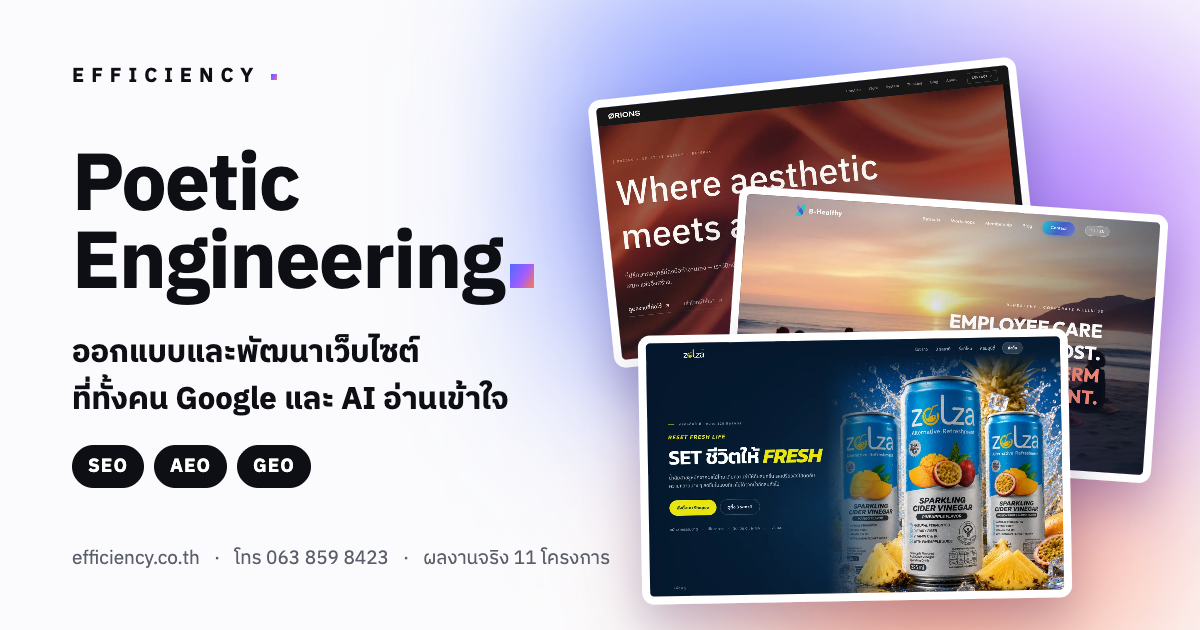
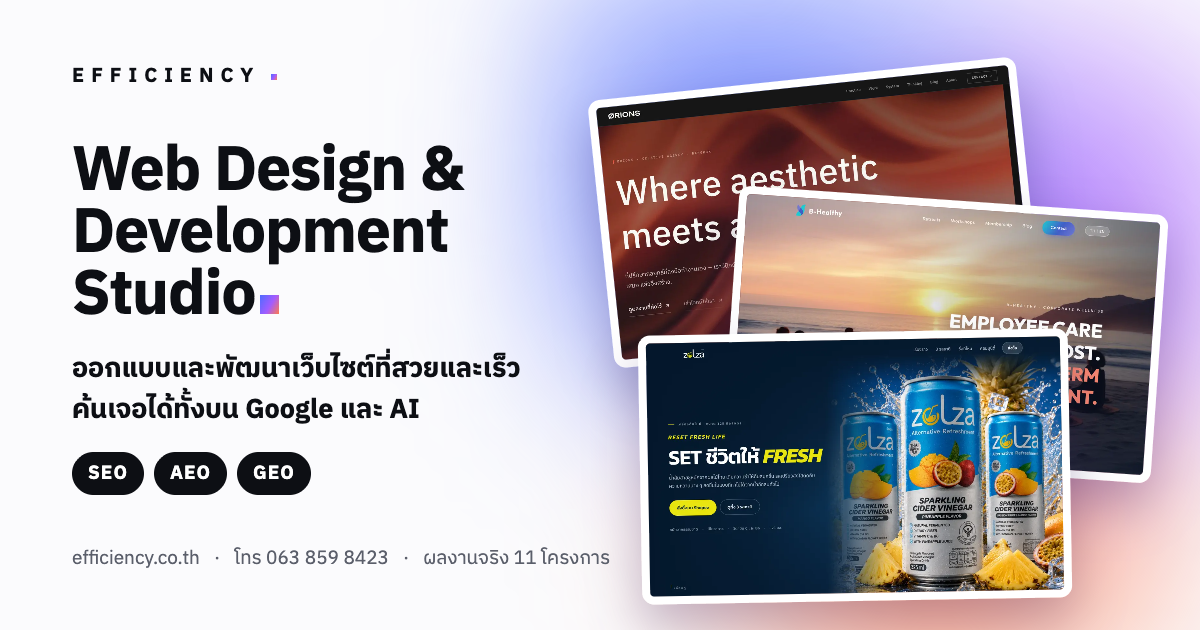
หัวเรื่อง Web Design & Development Studio และเพิ่ม Creative Director
- หน้าแรก: h1 เป็น "Web Design & Development Studio" (BRAND.headline)
  Poetic Engineering ยังเป็นสโลแกนแบรนด์ ไม่ใช่หัวเรื่อง
- ประโยคใต้หัวเรื่อง: "ที่ทั้งคน Google และ AI อ่านเข้าใจ" อ่านแล้วงง
  เปลี่ยนเป็น "ออกแบบและพัฒนาเว็บไซต์ที่สวยและเร็ว / ค้นเจอได้ทั้งบน Google
  และ AI" แบ่งเป็นวลีที่ตัดบรรทัดได้เฉพาะระหว่างวลี คำไม่หลุดเดี่ยวบนมือถือ
- ทีม: Ratthakan Suwanphakdee · Creative Director เรียงก่อนน้ำฝน รูปครอป
  4:5 และเบลอโลโก้ LSEG บนฉากหลัง (บริษัทอื่น) ด้วยมาสก์ขอบนุ่ม
  ได้ชื่ออังกฤษมาอย่างเดียว จึงไม่เดาการสะกดไทย — การ์ดใช้ชื่อไทยนำเมื่อมี
  ไม่มีก็ใช้ชื่ออังกฤษ JSON-LD เช่นกัน (alternateName ใส่เมื่อมีทั้งสอง)
- ชิปหน้าติดต่อผูกกับคนที่ติดธง contact (น้ำฝน) ไม่ใช่คนแรกในรายการ
- title/description/ภาพแชร์/alt/⌘K ตามหัวเรื่องใหม่
- mesh ท้ายหน้าแรกขยับออก — หน้าสั้นลงจนศูนย์กลางแสงไปอยู่ใต้บรรทัดเวลา
  ทำการ (3.54:1) ตอนนี้ต่ำสุดทั้งหน้า 6.29:1

ตรวจ: คอนทราสต์ทุกตัวอักษร ≥ 4.5:1 ทั้งคอมและมือถือ · production ผ่าน
ชุดตรวจเต็ม 9 หน้า

Changed region(s): [[0.0617, 0.2111, 0.4625, 0.5127], [0.0617, 0.5127, 0.4317, 0.7841]]

diff --git a/src/lib/content.js b/src/lib/content.js
@@ -11,6 +11,9 @@ export const BRAND = {
   category: 'Digital Craft Studio',
   descriptor: 'Web Design & Development Studio',
   positioning: 'Poetic Engineering.',
+  /* The home headline says the category in words a client uses. "Poetic
+     Engineering" stays the brand line (footer, share card), not the h1. */
+  headline: 'Web Design & Development Studio',
   belief: 'We remove friction without removing feeling.',
   essence: 'Life, in detail.',
   proposition: 'From intention to interaction.',
@@ -20,10 +23,12 @@ export const BRAND = {
   aiLine: ['Code can be generated.', 'Judgment cannot be automated.'],
   tone: 'Quiet confidence.',
   /* The sentence the brand lines were missing: what the studio sells, in the
-     reader's language. Sits under the display line and inside the h1.
-     Two phrases, because Thai line-breaking picks its own point otherwise and
-     split "คน Google" across lines. */
-  whatWeDo: ['ออกแบบและพัฒนาเว็บไซต์', 'ที่ทั้งคน Google และ AI อ่านเข้าใจ'],
+     reader's language. Sits under the display line and inside the h1. The
+     earlier "ที่ทั้งคน Google และ AI อ่านเข้าใจ" read as a riddle; this says
+     the outcome. Three phrases: the first two share a line on wide screens and
+     may only break between each other on a phone, so "เร็ว" is never left
+     alone. */
+  whatWeDo: ['ออกแบบและพัฒนาเว็บไซต์', 'ที่สวยและเร็ว', 'ค้นเจอได้ทั้งบน Google และ AI'],
 };
 
 /* What SEO / AEO / GEO mean to someone who has never heard the acronyms.
@@ -40,12 +45,21 @@ export const FINDABILITY = [
    Order is the order shown. Add the founder here when the details arrive. */
 export const TEAM = [
   {
+    /* supplied in English only — no Thai spelling is guessed */
+    key: 'ratthakan',
+    nameEn: 'Ratthakan Suwanphakdee',
+    role: 'Creative Director',
+    photo: '/team/ratthakan.webp',
+  },
+  {
     key: 'namfon',
     nameTh: 'น้ำฝน',
     nameEn: 'Namfon',
     role: 'Sales Director',
     photo: '/team/namfon.webp',
     avatar: '/team/namfon-avatar.webp',
+    /* the person shown beside the phone number on /contact */
+    contact: true,
   },
 ];
 

diff --git a/src/app/layout.js b/src/app/layout.js
@@ -28,9 +28,9 @@ const plexMono = IBM_Plex_Mono({
 const GA_ID = process.env.NEXT_PUBLIC_GA_ID;
 
 const SITE_URL = 'https://efficiency.co.th';
-const SITE_TITLE = 'EFFICIENCY | ออกแบบและพัฒนาเว็บไซต์ · Poetic Engineering';
+const SITE_TITLE = 'EFFICIENCY | Web Design & Development Studio · ออกแบบและพัฒนาเว็บไซต์';
 const SITE_DESC =
-  'ออกแบบและพัฒนาเว็บไซต์ ที่ทั้งคน Google และ AI อ่านเข้าใจ — SEO · AEO · GEO โดย Digital Craft Studio ในกรุงเทพฯ ดูผลงานจริง 11 โครงการ หรือโทร 063 859 8423';
+  'Web design & development studio ในกรุงเทพฯ ออกแบบและพัฒนาเว็บไซต์ที่สวยและเร็ว ค้นเจอได้ทั้งบน Google และ AI (SEO · AEO · GEO) ดูผลงานจริง 11 โครงการ หรือโทร 063 859 8423';
 
 /* the browser chrome on phones takes the page's paper colour in each mode */
 export const viewport = {
@@ -93,11 +93,11 @@ const LD = {
       knowsLanguage: ['th', 'en'],
       /* who works here — read by search engines and assistants answering
          "who do I talk to at EFFICIENCY" */
-      employee: TEAM.map((p) => ({
+      employee: TEAM.filter((p) => p.nameTh || p.nameEn).map((p) => ({
         '@type': 'Person',
         '@id': `${SITE_URL}/studio#${p.key}`,
-        name: p.nameTh,
-        alternateName: p.nameEn,
+        name: p.nameTh || p.nameEn,
+        ...(p.nameTh && p.nameEn ? { alternateName: p.nameEn } : {}),
         jobTitle: p.role,
         image: `${SITE_URL}${p.photo}`,
         worksFor: { '@id': `${SITE_URL}#org` },

diff --git a/src/app/page.js b/src/app/page.js
@@ -37,12 +37,16 @@ export default function HomePage() {
                 Thai sentence search engines and first-time readers need. */}
             <h1>
               <span className="display hero-display block" style={{ maxWidth: '12ch' }}>
-                {BRAND.positioning.replace('.', '')}
+                {BRAND.headline}
                 <span className="mark-square mark-square--caret" aria-hidden="true" />
               </span>
               <span className="hero-what mt-8 block">
-                <span className="block">{BRAND.whatWeDo[0]}</span>{' '}
-                <span className="block">{BRAND.whatWeDo[1]}</span>
+                <span className="block">
+                  <span className="whitespace-nowrap">{BRAND.whatWeDo[0]}</span>
+                  <wbr />
+                  <span className="whitespace-nowrap">{BRAND.whatWeDo[1]}</span>
+                </span>{' '}
+                <span className="block">{BRAND.whatWeDo[2]}</span>
               </span>
             </h1>
 
@@ -151,7 +155,7 @@ export default function HomePage() {
 
       {/* ── 06 · Questions, then the call ──────────────────────── */}
       <Band rule="ink" className="has-mesh">
-        <div className="mesh" aria-hidden="true" style={{ right: '-30%', bottom: '-75%' }} />
+        <div className="mesh" aria-hidden="true" style={{ right: '-48%', bottom: '-95%' }} />
         <div className="cols gap-y-14">
           <div className="col-span-12 lg:col-span-6">
             <h2 className="display-s">คำถามที่พบบ่อย</h2>

diff --git a/src/app/contact/page.js b/src/app/contact/page.js
@@ -18,6 +18,8 @@ const PREPARE = [
   'กำหนดเวลาที่อยากเปิดใช้งาน',
 ];
 
+const CONTACT_PERSON = TEAM.find((p) => p.contact);
+
 export default function ContactPage() {
   return (
     <>
@@ -43,16 +45,16 @@ export default function ContactPage() {
             </a>
             <p className="label mt-4">{CONTACT.hours} · {CONTACT.replyTime}</p>
 
-            {TEAM[0] && (
+            {CONTACT_PERSON && (
               <div className="contact-person mt-8">
                 <span className="contact-person__ring">
-                  <Image src={TEAM[0].avatar} alt="" width={56} height={56} className="contact-person__img" />
+                  <Image src={CONTACT_PERSON.avatar} alt="" width={56} height={56} className="contact-person__img" />
                 </span>
                 <span>
                   <span className="label block">คุยเรื่องโปรเจกต์กับ</span>
                   <span className="block" style={{ fontSize: 'var(--text-lg)', fontWeight: 700 }}>
-                    {TEAM[0].nameTh}
-                    <span className="label" style={{ marginInlineStart: 8 }}>{TEAM[0].role}</span>
+                    {CONTACT_PERSON.nameTh}
+                    <span className="label" style={{ marginInlineStart: 8 }}>{CONTACT_PERSON.role}</span>
                   </span>
                 </span>
               </div>

diff --git a/src/components/PersonCard.jsx b/src/components/PersonCard.jsx
@@ -11,17 +11,21 @@ export default function PersonCard({ person }) {
       <div className="person__photo">
         <Image
           src={person.photo}
-          alt={`${person.nameTh} (${person.nameEn}) ${person.role} ของ EFFICIENCY`}
+          alt={`${[person.nameTh, person.nameEn].filter(Boolean).join(' · ') || person.role} ${person.role} ของ EFFICIENCY`}
           fill
           sizes="(max-width: 40rem) 90vw, 280px"
           style={{ objectFit: 'cover', objectPosition: 'center 30%' }}
         />
       </div>
       <figcaption className="mt-4">
-        <p className="person__name">{person.nameTh}</p>
-        <p className="label mt-1">
-          {person.nameEn} · {person.role}
-        </p>
+        {/* Thai name leads when there is one; otherwise the English name */}
+        <p className="person__name">{person.nameTh || person.nameEn || person.role}</p>
+        {(person.nameTh || person.nameEn) && (
+          <p className="label mt-1">
+            {person.nameTh && person.nameEn ? `${person.nameEn} · ` : ''}
+            {person.role}
+          </p>
+        )}
       </figcaption>
     </figure>
   );

diff --git a/src/components/CommandPalette.jsx b/src/components/CommandPalette.jsx
@@ -11,7 +11,7 @@ import { useRouter } from 'next/navigation';
  * anyone who types.
  */
 const DESTINATIONS = [
-  { label: 'หน้าแรก', hint: 'home · Poetic Engineering', href: '/' },
+  { label: 'หน้าแรก', hint: 'home · web design & development', href: '/' },
   { label: 'ผลงาน', hint: 'work · 11 projects', href: '/work' },
   { label: 'มาตรฐานงาน', hint: 'standard · SEO AEO GEO', href: '/standard' },
   { label: 'วิธีทำงาน', hint: 'approach · 4 steps', href: '/approach' },

diff --git a/src/app/globals.css b/src/app/globals.css
@@ -474,8 +474,9 @@
 
 /* the home headline is capped a step below --text-display so the period
    square keeps clear of the fanned cards beside it */
+/* three lines now ("Web Design & / Development / Studio"), so a step smaller */
 .hero-display {
-  font-size: clamp(52px, 8vw, 108px);
+  font-size: clamp(44px, 6.6vw, 96px);
 }
 .mesh {
   position: absolute;
